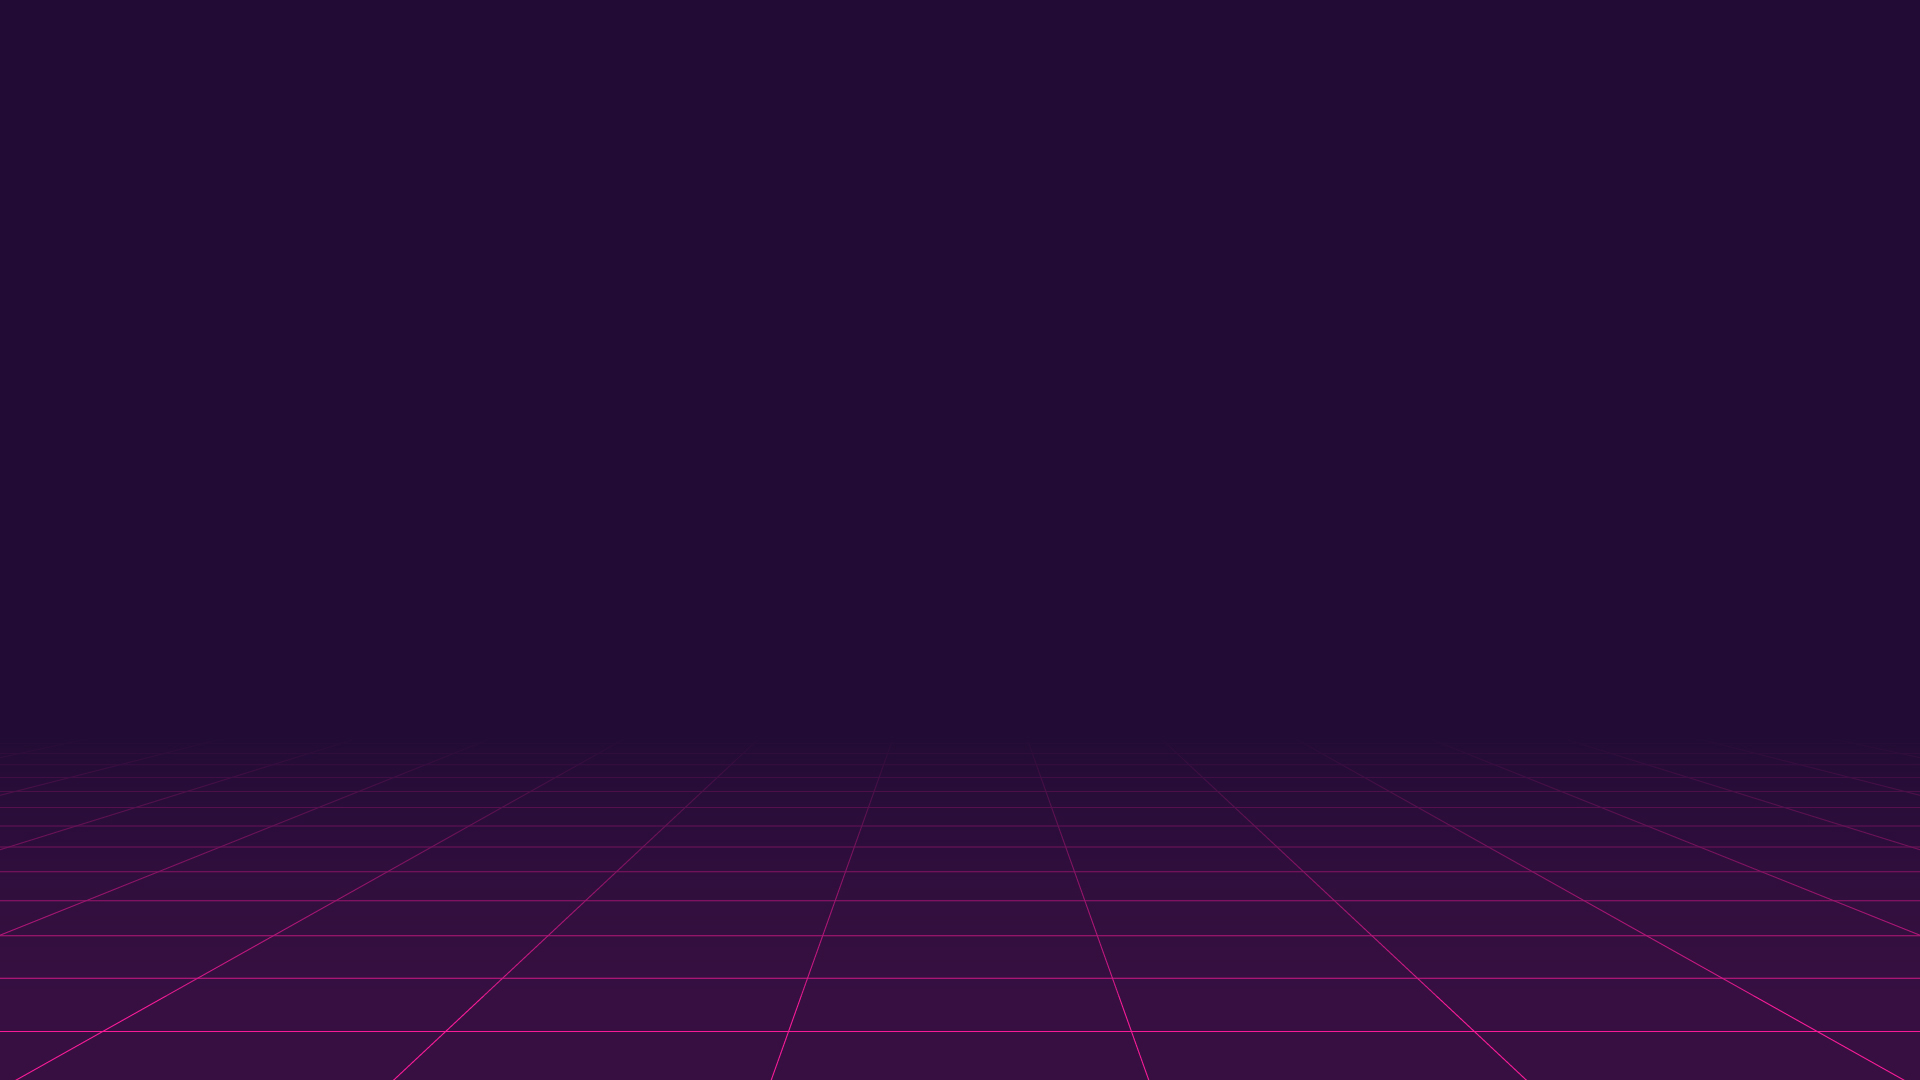
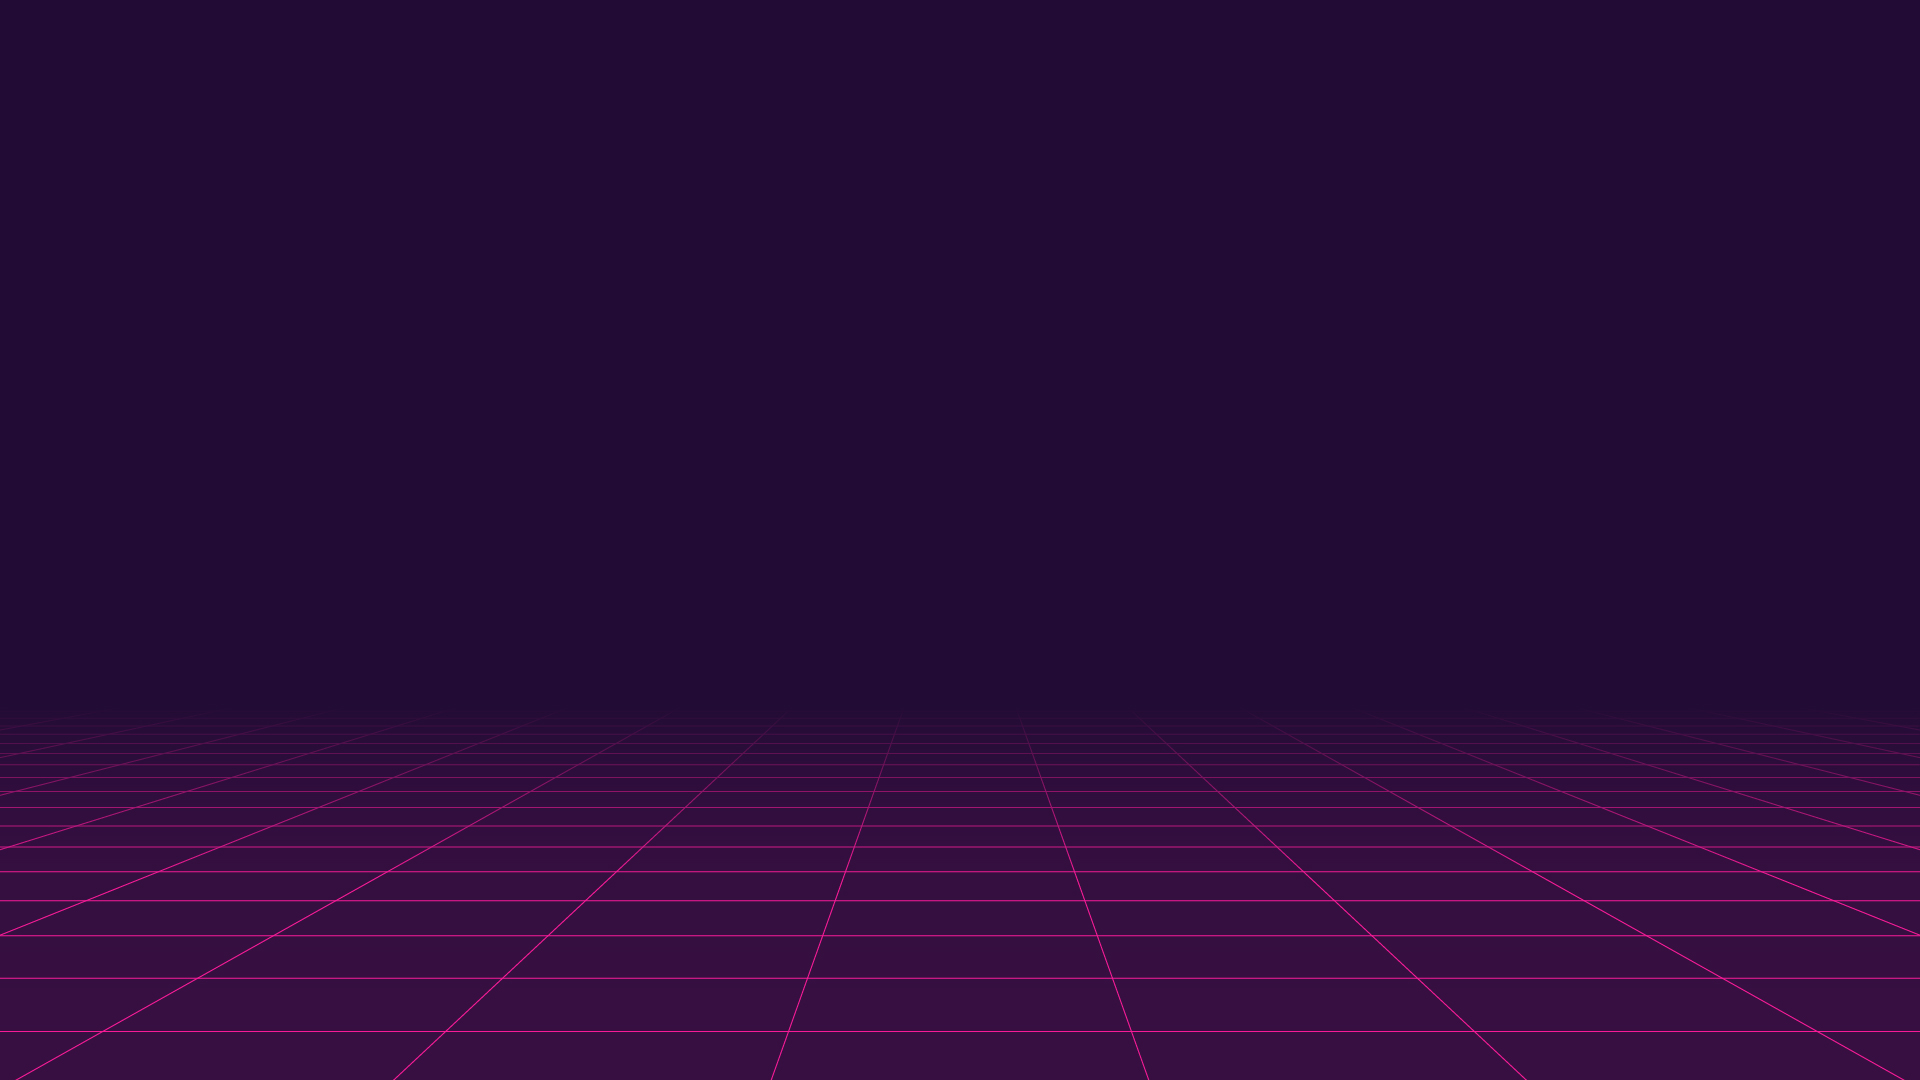
fix: blog bg

diff --git a/_sass/no-style-please.scss b/_sass/no-style-please.scss
@@ -7,7 +7,7 @@
   ul, li { color: #b8c3f1; }
 
   & {
-    background: url('/assets/images/bg.jpg') no-repeat center center fixed;
+    background: url('/assets/images/bg.jpg') no-repeat center bottom fixed;
     background-size: cover;
   }
 }
